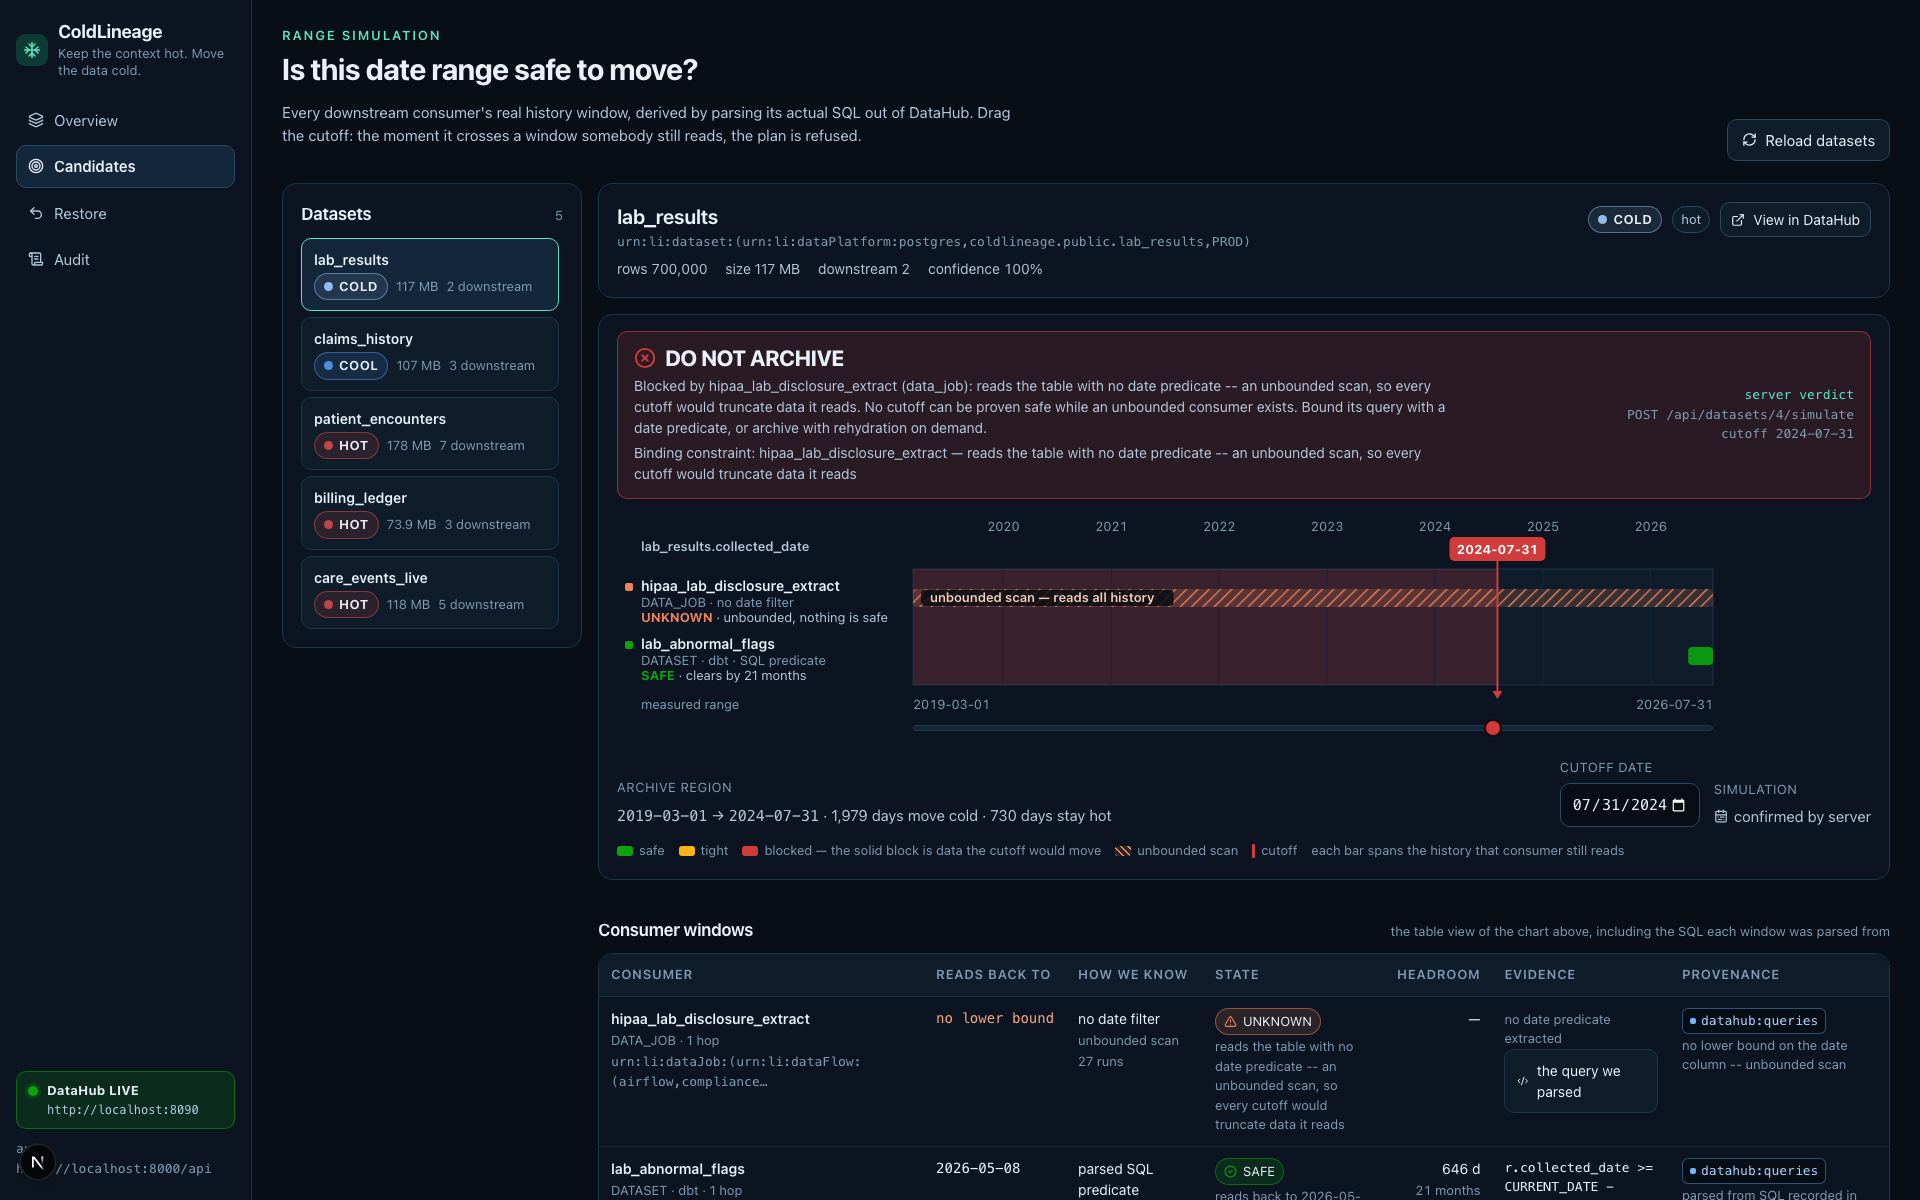
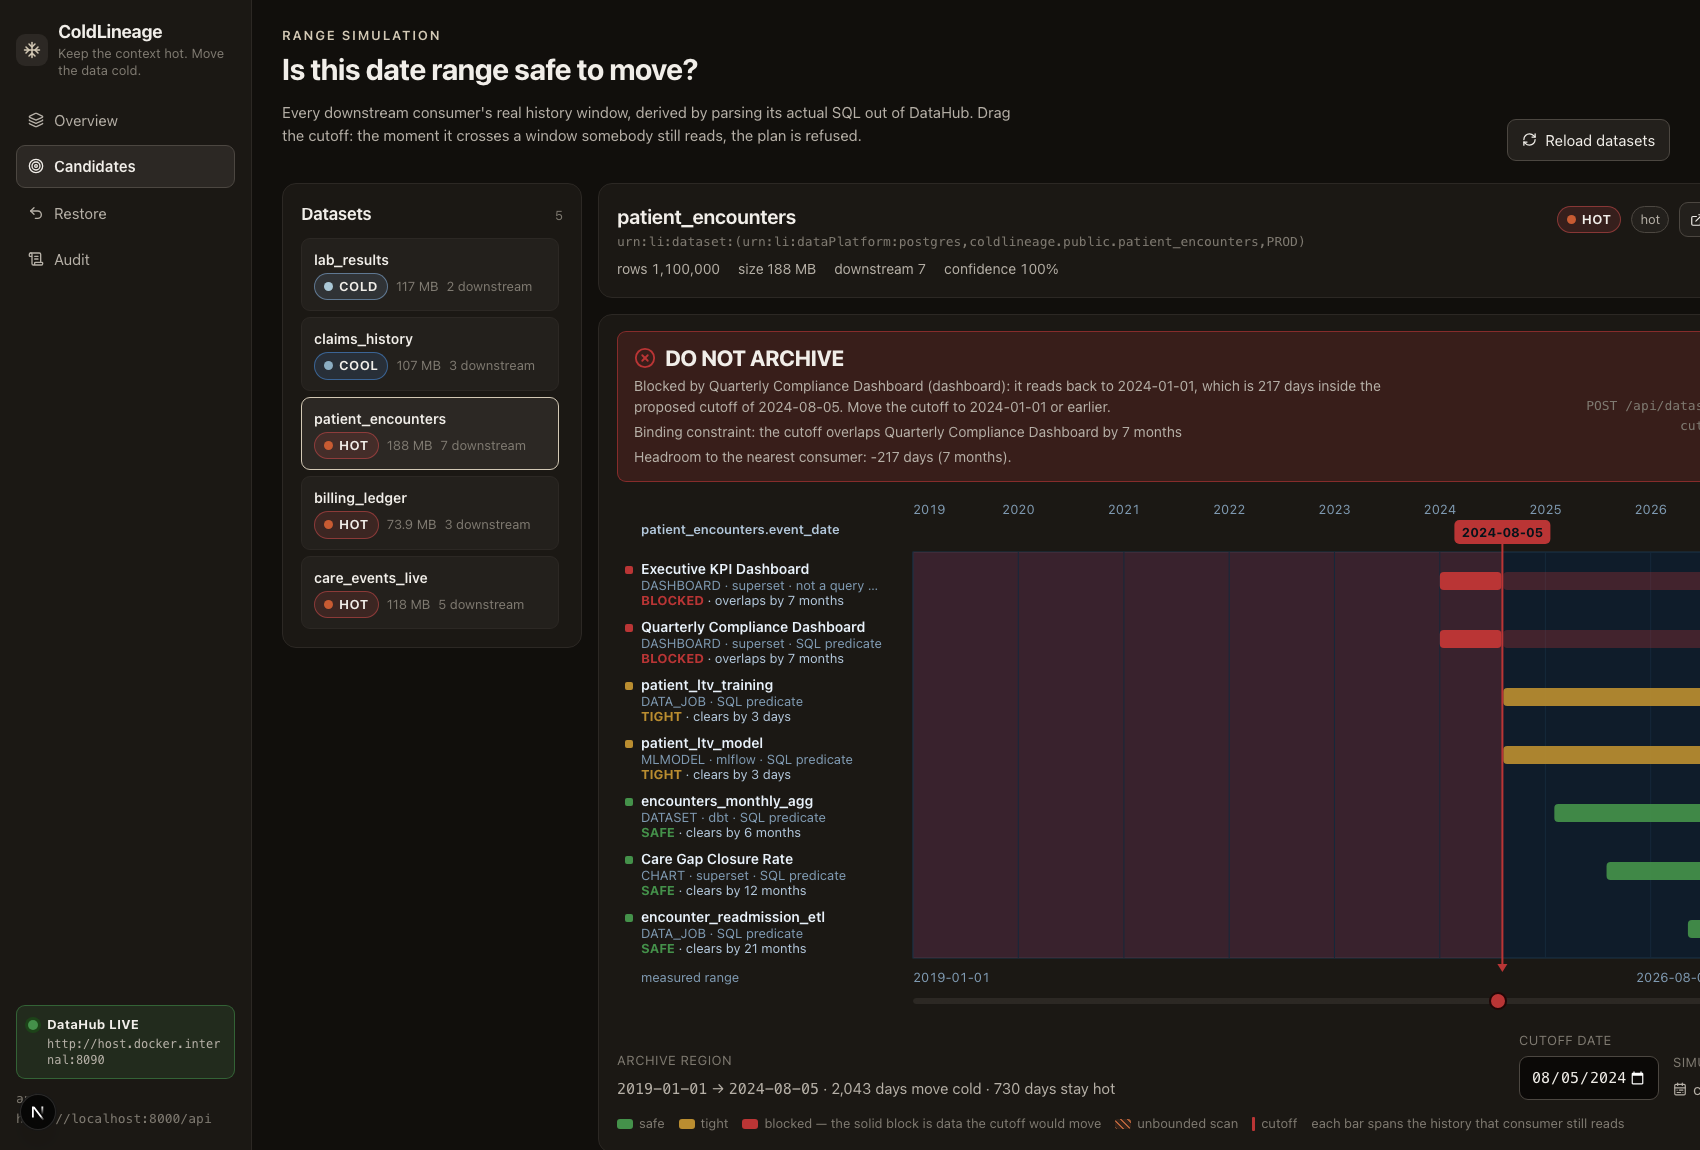
Route the timeline's colours through tokens instead of pre-reskin hex
RangeSafetyTimeline held its own copy of the palette as literal hex -- safe
#0ca30c, tight #fab219, blocked #d03b3b, unknown #ec835a, and the cutoff marker
still on the old teal #5fe3c0. So after the reskin the busiest chart in the app
was the one thing still wearing the navy-era colours, on the page the demo video
spends the most time on.

SVG fill and stroke resolve var() exactly as CSS does, so these are now token
references and the chart re-skins with everything else. The cutoff marker moved to
the achromatic accent deliberately: it marks where the operator put the line, not
a measurement, so it should not wear a data colour.

Screenshots refreshed.

Changed region(s): [[0.0, 0.0, 1.0, 1.0], [0.8106, 0.0913, 1.0, 0.213], [0.0, 0.8826, 0.1559, 1.0]]

diff --git a/frontend/components/RangeSafetyTimeline.tsx b/frontend/components/RangeSafetyTimeline.tsx
@@ -59,14 +59,20 @@ const FLAG_W = 96;
 /** Client-side preview threshold only. The server owns the real margin. */
 const PREVIEW_TIGHT_DAYS = 45;
 
+/* Token references, not hex. SVG `fill`/`stroke` resolve var() the same as CSS
+   does, so this chart re-skins with the rest of the app instead of drifting out
+   of step -- which is exactly what it had done: these were the pre-reskin navy
+   palette, still teal and maroon after everything else had moved on. */
 const STATE_COLOR: Record<ImpactState, string> = {
-  safe: '#0ca30c',
-  tight: '#fab219',
-  blocked: '#d03b3b',
-  unknown: '#ec835a',
+  safe: 'var(--good)',
+  tight: 'var(--warning)',
+  blocked: 'var(--critical)',
+  unknown: 'var(--serious)',
 };
 
-const CUTOFF_SAFE_COLOR = '#5fe3c0';
+/* The cutoff marker is chrome, not data -- it is where the operator put the line,
+   not a measurement -- so it wears the achromatic accent. */
+const CUTOFF_SAFE_COLOR = 'var(--accent)';
 
 export const DERIVATION_LABEL: Record<WindowDerivation, string> = {
   sql_predicate: 'parsed SQL predicate',
